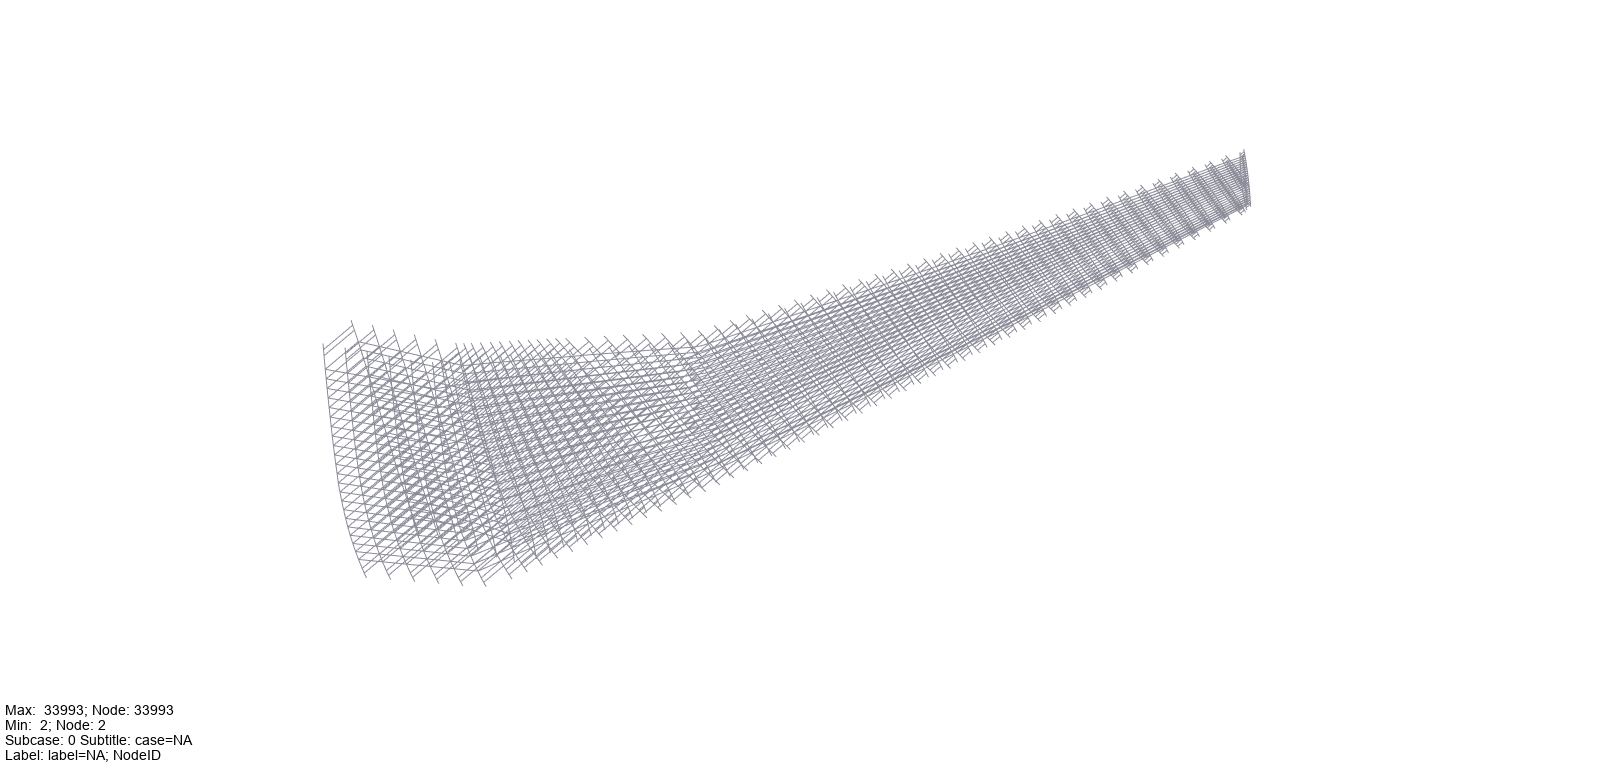
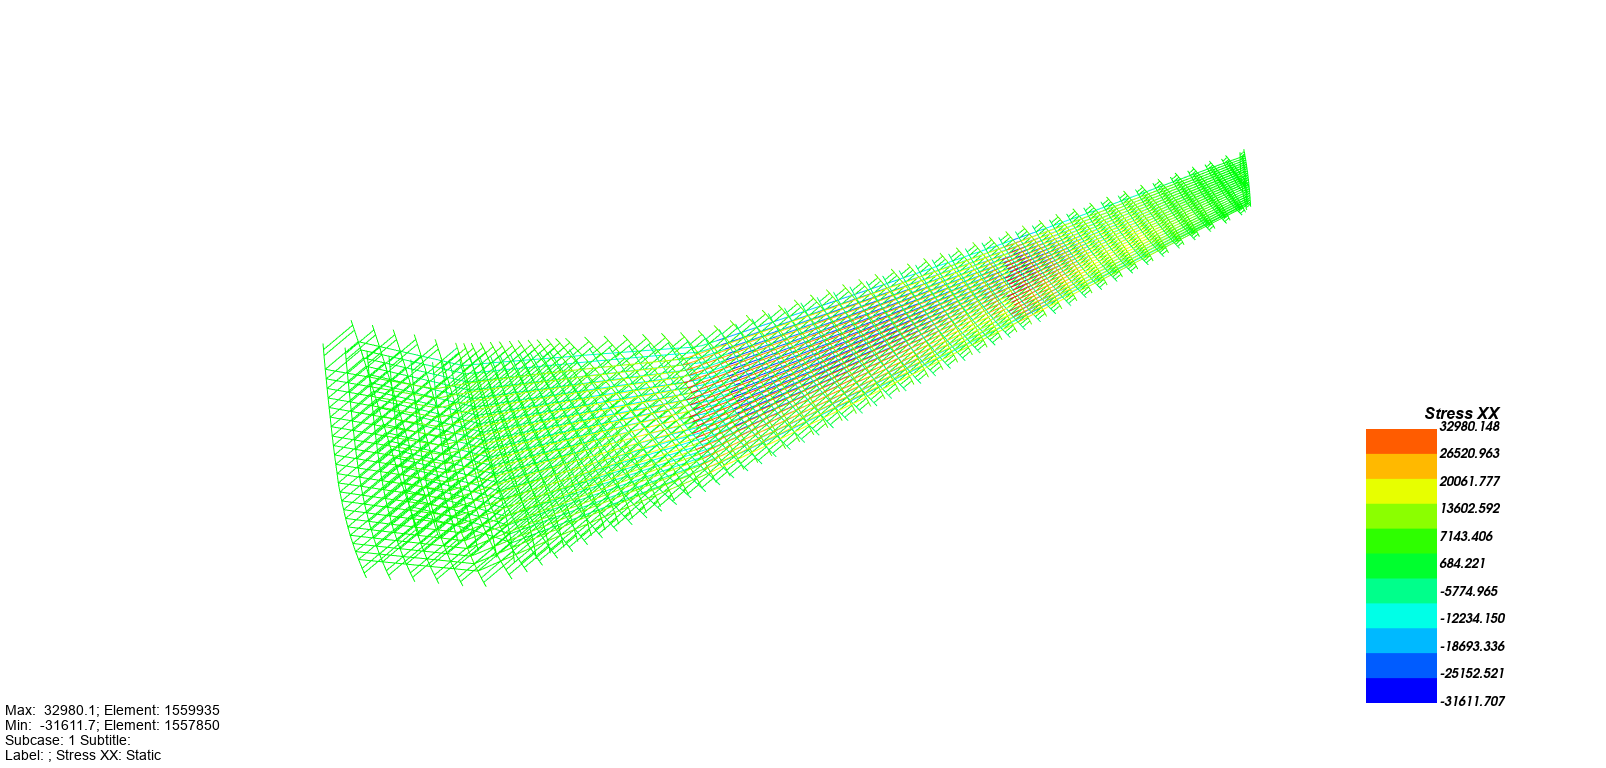
render_stress_contour: add result="axial" for real CBAR stress fringes; blog GVW/loads sourced from NASA docs, tip-displacement trim (#31)
- New render_stress_contour result="axial" colors bar elements by their
  real per-element axial-stress result (RealBarStressArray's "axial"
  column, exposed by pyNastranGUI as method label "Stress XX") instead of
  the GUI-synthesized pseudo-vonMises value CBARs get lumped into under
  result="von_mises". Bar-stress cases aren't keyed by a descriptive
  resname string in self.result_cases the way plate von Mises/displacement
  are, so this adds a second fringe-selection path in _build_postscript
  (a "__bar_axial__" sentinel) that matches the case object's own
  .methods[imethod] label instead of substring-matching a resname.
  Supports hide_*/isolate_* like von_mises does (it's a stress-table
  result, kept by _write_filtered_op2's trim) -- only displacement is
  restricted to the untrimmed model. Two new end-to-end tests cover a real
  CBAR model (fringe found, works combined with isolate_property_ids) and
  a plate-only model (no bar stress -- graceful fringe_set=False).
- Regenerated the blog's Stiffeners render with the new axial fringe
  instead of bare, uncolored geometry.
- Read NASA's own CRM wingbox FEM description PDF to answer what the
  "GVW" subcase and its loads/BCs actually represent, rather than
  describing the load by what it isn't: GVW = gross vehicle weight
  (~500,000 lbm design weight); the subcase is NASA's documented baseline
  static-strength sizing case (uniform spanwise load distribution at 500
[…]

Changed region(s): [[0.1868, 0.1875, 0.7783, 0.75], [0.8406, 0.5312, 0.934, 0.9375], [0.0311, 0.9062, 0.1245, 1.0]]

diff --git a/scripts/mcp_server.py b/scripts/mcp_server.py
@@ -686,9 +686,20 @@ _DEFAULT_RENDER_TIMEOUT_S = 300
 # "displacement") deliberately excludes the rotational displacement case --
 # both names contain "displacement", only the translational one has a "T"
 # right after it once spaces/underscores are stripped.
+#
+# "axial" is a sentinel, not a substring: bar-stress cases aren't keyed by
+# a descriptive resname string the way plate von Mises / displacement cases
+# are -- self.result_cases stores them as (itime, imethod, header) tuples
+# (confirmed by inspecting self.result_cases the same way), so there's
+# nothing to substring-match. _build_postscript special-cases this sentinel
+# to instead look up the SimpleTableResults object's own .methods list and
+# select whichever case has methods[imethod] == "Stress XX" -- pyNastran's
+# label (RealBarStressArray.get_headers()) for the real per-element CBAR
+# axial-stress column, confirmed at index 4 of its 15-column header layout.
 _FRINGE_RESULT_MATCH = {
     "von_mises": "vonmises",
     "displacement": "displacementt",
+    "axial": "__bar_axial__",
 }
 
 # pyNastranGUI's default main-window render size on this setup, confirmed
@@ -1272,6 +1283,17 @@ def _build_postscript(
     back to the caller. Falls back to whatever pyNastranGUI displays by
     default (e.g. for a bar-only model with no plate von Mises result) if
     no matching case is found.
+
+    fringe_match == "__bar_axial__" (result="axial") takes a different path
+    entirely: bar-stress result cases aren't keyed by a descriptive resname
+    string to substring-match against -- self.result_cases stores them as
+    (itime, imethod, header) tuples, with the actual method label sitting on
+    the case's own SimpleTableResults object (`.methods[imethod]`). So this
+    mode walks self.result_cases looking for an object with a `.methods`
+    list whose entry at the case's own imethod is "Stress XX" -- pyNastran's
+    label for the real per-element CBAR axial-stress column (confirmed via
+    RealBarStressArray.get_headers(), index 4 of 15) -- rather than
+    string-matching the case name itself.
     """
     output_png_repr = repr(str(output_png))
     fringe_flag_repr = repr(str(output_png) + ".fringe_set")
@@ -1355,7 +1377,26 @@ self.geometry_actors['main'].GetProperty().SetColor(0.55, 0.55, 0.6)
 """
 
     fringe_block = ""
-    if want_stress_fringe:
+    if want_stress_fringe and fringe_match == "__bar_axial__":
+        fringe_block = f"""
+_fringe_set = False
+for _key, _val in self.result_cases.items():
+    try:
+        _obj, (_i, _name) = _val
+    except Exception:
+        continue
+    _methods = getattr(_obj, "methods", None)
+    if _methods is None or not isinstance(_name, tuple) or len(_name) != 3:
+        continue
+    _itime, _imethod, _header = _name
+    if 0 <= _imethod < len(_methods) and _methods[_imethod] == "Stress XX":
+        self.on_fringe(_key)
+        _fringe_set = True
+        break
+with open({fringe_flag_repr}, "w") as _f:
+    _f.write("1" if _fringe_set else "0")
+"""
+    elif want_stress_fringe:
         fringe_block = f"""
 _fringe_set = False
 for _key, _val in self.result_cases.items():
@@ -1509,14 +1550,15 @@ def _render(
     hidden_eids = _resolve_hidden_eids(
         in_path, hide_groups, hide_property_ids, isolate_groups, isolate_property_ids, ses_path
     )
-    if hidden_eids and result != "von_mises" and resolved_op2_path is not None:
+    if hidden_eids and result == "displacement" and resolved_op2_path is not None:
         # _write_filtered_op2 (below) drops displacement/velocity/etc.
         # result categories entirely -- it only ever trims and keeps stress
-        # tables, since that's all a von Mises fringe needs. A displacement
-        # fringe combined with hide_*/isolate_* would silently find nothing
-        # to show (fringe_set=False) rather than erroring, which is worse
-        # than just saying so up front: this combination isn't supported
-        # yet, so ask for the untrimmed model instead of guessing.
+        # tables, since that's all a von Mises or axial fringe needs. A
+        # displacement fringe combined with hide_*/isolate_* would silently
+        # find nothing to show (fringe_set=False) rather than erroring,
+        # which is worse than just saying so up front: this combination
+        # isn't supported yet, so ask for the untrimmed model instead of
+        # guessing.
         raise ValueError(
             f"result={result!r} with hide_groups/hide_property_ids/"
             "isolate_groups/isolate_property_ids isn't supported yet -- "
@@ -1575,6 +1617,22 @@ def _render(
                 except ValueError:
                     peaks = {}
                 want_stress_fringe = any("von_mises" in peak for peak in peaks.values())
+        elif result == "axial":
+            # Mirrors the von_mises branch: only attempt the fringe if a
+            # genuine bar direct-stress result (get_max_stress's
+            # "max_stress", the same one CBAR governs under) is actually
+            # present. Unlike the von_mises pseudo-case, there's no known
+            # hang risk here -- this selects a real per-element case
+            # (RealBarStressArray's own "axial" column), not a GUI-
+            # synthesized one -- but skipping a doomed search on a plate-only
+            # selection (no CBARs at all) costs nothing either.
+            want_stress_fringe = False
+            if render_op2_path is not None:
+                try:
+                    peaks = get_max_stress(str(render_op2_path))
+                except ValueError:
+                    peaks = {}
+                want_stress_fringe = any("max_stress" in peak for peak in peaks.values())
         else:
             # Displacement is a genuine nodal result already in the OP2
             # (whenever the case control requested it), not something
@@ -1729,13 +1787,31 @@ def render_stress_contour(
     result: str = "von_mises",
 ) -> dict[str, Any]:
     """Same as render_model_view, but also loads op2_path and colors the
-    view by a result -- "von_mises" (default) or "displacement" (nodal
-    translational displacement magnitude, T_XYZ; rotational displacement
-    isn't exposed here). The result dict includes "fringe_set": True if a
-    matching result case was found and applied, False if the OP2 has no
-    such case (e.g. a bar-only model with result="von_mises" -- see
+    view by a result -- "von_mises" (default, plate elements only),
+    "displacement" (nodal translational displacement magnitude, T_XYZ;
+    rotational displacement isn't exposed here), or "axial" (bar elements
+    only -- CBAR's real per-element axial direct stress, RealBarStressArray's
+    own "axial" column, NOT the GUI-synthesized pseudo-vonMises case bars
+    get lumped into under result="von_mises"). The result dict includes
+    "fringe_set": True if a matching result case was found and applied,
+    False if the OP2 has no such case (e.g. result="von_mises" against a
+    bar-only model, or result="axial" against a plate-only one -- see
     get_max_stress's "max_stress" vs "von_mises" distinction) and
     pyNastranGUI's default coloring was left in place instead.
+
+    result="axial" is what actually colors an all-CBAR selection (e.g.
+    isolate_groups=["Stiffeners"]) by stress instead of leaving it as bare
+    geometry: CBARs have no von Mises value, but they do have a genuine
+    per-element axial stress, and pyNastranGUI already computes and stores
+    it as a real result case -- it's just not exposed under a descriptive
+    name the way plate von Mises or displacement are (self.result_cases
+    keys bar-stress cases by an (itime, imethod, header) tuple rather than
+    a string), so finding it means matching the case object's own
+    .methods[imethod] == "Stress XX" instead of substring-matching the case
+    name (see _build_postscript's "__bar_axial__" branch). Supports
+    hide_*/isolate_* like von_mises does (it's a stress-table result, kept
+    by the same OP2 trimming) -- only result="displacement" is restricted
+    to the untrimmed model.
 
     result="displacement" doesn't support hide_groups/hide_property_ids/
     isolate_groups/isolate_property_ids (raises if combined) -- the OP2

diff --git a/scripts/test_mcp_server.py b/scripts/test_mcp_server.py
@@ -834,3 +834,53 @@ def test_render_stress_contour_displacement_end_to_end(
     assert result["fringe_set"] is True
     assert output_png.is_file()
     assert output_png.stat().st_size > 0
+
+
+@pytest.mark.skipif(
+    not (Path(DEFAULT_SOLVER_PATH).is_file() and _rendering_deps_available()),
+    reason=_RENDER_SKIP_REASON,
+)
+def test_render_stress_contour_axial_end_to_end(cbar_bdf: Path, tmp_path: Path):
+    """result="axial" colors CBARs by their real per-element axial-stress
+    result ("Stress XX", RealBarStressArray's own column) -- unlike
+    result="von_mises", which CBARs have no genuine value for at all (see
+    get_max_stress's "max_stress" vs "von_mises" distinction). Exercises
+    _build_postscript's "__bar_axial__" branch (method-label lookup, not a
+    resname substring search) via the real tool, and confirms it also works
+    combined with isolate_property_ids -- axial is a stress-table result,
+    kept by _write_filtered_op2's trim, unlike displacement."""
+    solver_result = ms.run_solver(str(cbar_bdf))
+    assert solver_result["success"], solver_result["errors"]
+
+    output_png = tmp_path / "axial.png"
+    result = ms.render_stress_contour(
+        str(cbar_bdf), solver_result["op2_path"], str(output_png),
+        camera="iso", result="axial", isolate_property_ids=[1], timeout=60,
+    )
+    assert result["success"], result.get("errors")
+    assert result["fringe_set"] is True
+    assert output_png.is_file()
+    assert output_png.stat().st_size > 0
+
+
+@pytest.mark.skipif(
+    not (Path(DEFAULT_SOLVER_PATH).is_file() and _rendering_deps_available()),
+    reason=_RENDER_SKIP_REASON,
+)
+def test_render_stress_contour_axial_no_bar_stress(two_property_bdf: Path, tmp_path: Path):
+    """A plate-only model (no CBAR at all) has no "Stress XX" case to find --
+    result="axial" should render with pyNastranGUI's default coloring left
+    in place (fringe_set=False), the same graceful fallback von_mises gets
+    against a bar-only model, rather than raising."""
+    solver_result = ms.run_solver(str(two_property_bdf))
+    assert solver_result["success"], solver_result["errors"]
+
+    output_png = tmp_path / "axial_no_bars.png"
+    result = ms.render_stress_contour(
+        str(two_property_bdf), solver_result["op2_path"], str(output_png),
+        camera="iso", result="axial",
+    )
+    assert result["success"], result.get("errors")
+    assert result["fringe_set"] is False
+    assert output_png.is_file()
+    assert output_png.stat().st_size > 0

diff --git a/docs/_posts/2026-08-08-ai-driven-fea-nasa-crm-wingbox.md b/docs/_posts/2026-08-08-ai-driven-fea-nasa-crm-wingbox.md
@@ -100,26 +100,28 @@ cards (following LOAD combinations) and summarizes them per subcase.
 
 On the "GVW" subcase: 196 constrained nodes, 12,238 FORCE cards. Node and
 card counts don't say where on the structure they apply, so the coordinates
-were cross-checked directly:
+were cross-checked directly against NASA's own
+[wingbox FEM description](https://commonresearchmodel.larc.nasa.gov/wp-content/uploads/sites/7/2014/02/CRM_wingboxFEM_description_1.pdf):
 
 - **Boundary conditions (SPC set 2): root joint, two rib stations.** 140
   nodes at the symmetry-plane root rib (Y ≈ 0) are fixed in all three
   translations (DOF `123`). A further 56 nodes at a second rib ~120 in
   outboard (Y ≈ 120, full semi-span ≈ 1,151 in) are fixed in Z only (DOF
-  `3`). No rotational DOF is constrained anywhere — a shell/bar
-  idealization, not a literal built-in wall.
-- **Loads (LOAD set 3): distributed, not aerodynamic pressure.** All 12,238
-  FORCE cards carry the identical magnitude, 20.41 lbf (90.8 N), +Z
-  direction, one per grid point. Coverage is ~88-89% of nodes on every
-  named component alike — skins, ribs, shear webs, spars, stiffeners — not
-  concentrated on the skin the way a pressure load would be. Consistent
-  with a distributed, mass-proportional "GVW" load rather than a modeled
-  aerodynamic pressure distribution. Resultant: **249,777.6 lbf (1,111.0
-  kN)**, vertical, zero net moment.
-
-A ~250,000 lbf upward resultant is the right order of magnitude for a GVW
-static case — a stronger validity check than a clean solver exit code
-alone.
+  `3`). NASA's description documents exactly this: "simple cantilever at
+  the root with simulated pressure vessel attach lug fittings at
+  body-fairing intersections" — the two rib stations found here are that
+  cantilever root plus the attach-lug support point.
+- **Loads (LOAD set 3): the "GVW" static-strength sizing case.** NASA's
+  description defines GVW as gross vehicle weight (~500,000 lbm design
+  weight for this transport-category model) and this subcase as the
+  baseline static-strength check: a "conservative uniform SLD (spanwise
+  load distribution)" applied at a gross vehicle weight of 500 kips, Mach
+  0.85, FL350. All 12,238 FORCE cards carry the identical magnitude, 20.41
+  lbf (90.8 N), +Z direction, one per grid point, spread uniformly across
+  every named component — skins, ribs, shear webs, spars, stiffeners.
+  Resultant: **249,777.6 lbf (1,111.0 kN)**, vertical, zero net moment —
+  roughly half the 500-kip GVW criterion, consistent with a semi-span model
+  carrying one wing's share of the aircraft's weight.
 
 ### Results
 
@@ -127,19 +129,14 @@ MYSTRAN solves the patched "GVW" subcase cleanly.
 
 #### Tip displacement
 
-Tip displacement: **~159.7 in (4,056 mm)** at node 9103. Large in absolute
-terms, but this is a semi-span research model under a design GVW case, not
-a certified aircraft — a pipeline sanity check, not a design conclusion.
-
-`render_stress_contour`'s `result` parameter also accepts `"displacement"`,
-coloring by nodal translational displacement magnitude:
+Tip displacement: **~159.7 in (4,056 mm)** at node 9103, from
+`render_stress_contour`'s `result="displacement"` parameter, which colors
+by nodal translational displacement magnitude instead of stress:
 
 <img src="https://ai-for-engineering.github.io/nastran-fea/assets/wingbox_displacement_iso.png" alt="Displacement magnitude contour on the NASA CRM wingbox, showing smooth bending from root to tip" style="max-width:100%;">
 
 *Displacement magnitude contour — smooth, monotonic bending from the fixed
-root (blue, ~0 in) to the 159.7 in tip peak (orange, node 9103). No local
-kinks or discontinuities: a modeling error (unintended pin joint, missing
-constraint) typically shows up here before it shows up as a wrong number.*
+root (blue, ~0 in) to the 159.7 in tip peak (orange, node 9103).*
 
 #### Stress contour
 
@@ -243,10 +240,13 @@ How `isolate_groups` handles a resolved element set:
 - **Geometry and results are trimmed together.** Isolating for
   `render_stress_contour` trims the OP2 to the same element subset before
   pyNastranGUI loads it, so geometry and results match in size.
-- **Bar elements get no von Mises fringe.** CBARs have no per-element von
-  Mises value. The tool checks for a genuine plate von Mises result before
-  attempting a fringe and skips it otherwise (e.g. `Stiffeners`, 14,134
-  CBAR).
+- **Bar elements fringe by axial stress, not von Mises.** CBARs have no
+  per-element von Mises value, but `result="axial"` colors by their real
+  per-element axial-stress result instead (e.g. `Stiffeners`, 14,134 CBAR).
+  pyNastranGUI already computes and stores this value; it's just not
+  exposed under a descriptive case name the way von Mises or displacement
+  are, so selecting it means matching the case's own method label
+  ("Stress XX") rather than a resname substring search.
 - **Non-element groups are flagged explicitly.** `LUMPED_MASS` is `CONM2`
   mass points, not elements. Isolating it resolves to zero elements,
   reported as a specific message rather than attempted as a render.
@@ -272,21 +272,18 @@ element 2854.*
 *Leading- and trailing-edge spars (1,611 elements) — peak 34,046.9 psi
 (234.7 MPa).*
 
-<img src="https://ai-for-engineering.github.io/nastran-fea/assets/wingbox_stiffeners_stress.png" alt="Isolated stiffener elements, uncolored since bars have no von Mises value" style="max-width:100%;">
+<img src="https://ai-for-engineering.github.io/nastran-fea/assets/wingbox_stiffeners_stress.png" alt="Axial stress contour on the isolated stiffener elements" style="max-width:100%;">
 
-*Stiffeners (14,134 CBAR) — no fringe: bars have no von Mises value (see
-`max_stress` vs `von_mises` in `get_max_stress`). Geometry only.*
+*Stiffeners (14,134 CBAR) — colored by axial stress (`result="axial"`).
+Peak: 32,980.1 psi (227.4 MPa), element 1559935; the bipolar scale (min
+-31,611.7 psi) reflects axial stress carrying a sign (tension/compression),
+unlike von Mises.*
 
-Governing stiffener stress (element 1559935, 32,980.1 psi axial) is covered
-in the Peak stress by component table above; no per-element fringe is
-rendered for CBAR values since pyNastranGUI's bar fringing is a
-GUI-synthesized approximation, not a direct read of the axial-stress
-column.
-
-Every render above used the same tool call, varying only the
-`isolate_groups` name. Per-component peak stresses (same `get_max_stress`
-call against each group's trimmed OP2) are tabulated in Peak stress by
-component above.
+Every render above used the same `render_stress_contour` call, varying
+`isolate_groups` (and, for the all-bar Stiffeners group, `result="axial"`
+in place of the default `"von_mises"`). Per-component peak stresses (same
+`get_max_stress` call against each group's trimmed OP2) are tabulated in
+Peak stress by component above.
 
 ## Honest caveats
 

diff --git a/README.md b/README.md
@@ -100,11 +100,17 @@ Point an MCP client (e.g. Claude Desktop/Code config) at that command. Tools:
   isolated element set first -- pairing a filtered geometry with the full
   untrimmed OP2 is a real, confirmed hang in pyNastranGUI.
   `render_stress_contour`'s `result` parameter picks what to color by:
-  `"von_mises"` (default) or `"displacement"` (nodal translational
-  displacement magnitude). `result="displacement"` doesn't support
+  `"von_mises"` (default, plate elements only), `"displacement"` (nodal
+  translational displacement magnitude), or `"axial"` (bar elements only --
+  CBAR's real per-element axial direct stress, not the GUI-synthesized
+  pseudo-vonMises value bars get lumped into under `"von_mises"`; see
+  `_build_postscript`'s `"__bar_axial__"` branch for how it's found, since
+  bar-stress cases aren't keyed by a descriptive name the way plate/
+  displacement cases are). `result="displacement"` doesn't support
   `hide_*`/`isolate_*` (raises if combined) -- the OP2 trimming those need
   only preserves stress tables, so a displacement fringe on a trimmed OP2
-  would silently find nothing to show.
+  would silently find nothing to show; `"von_mises"` and `"axial"` are both
+  stress-table results and support `hide_*`/`isolate_*` fine.
 
 ## 3D visualization (pyNastranGUI)
 
